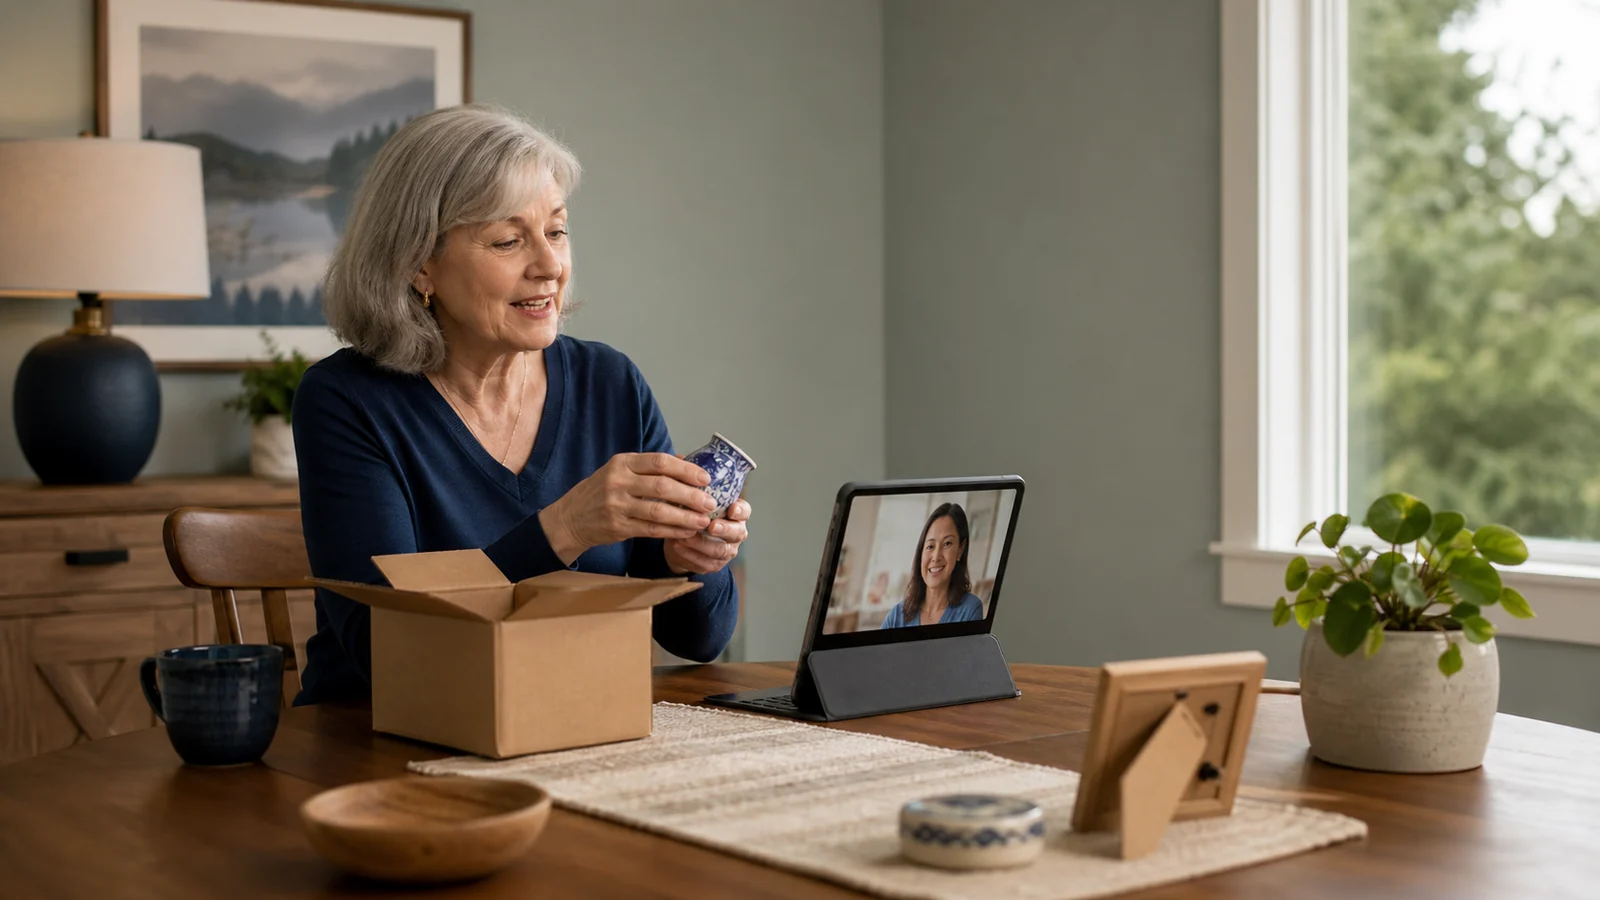
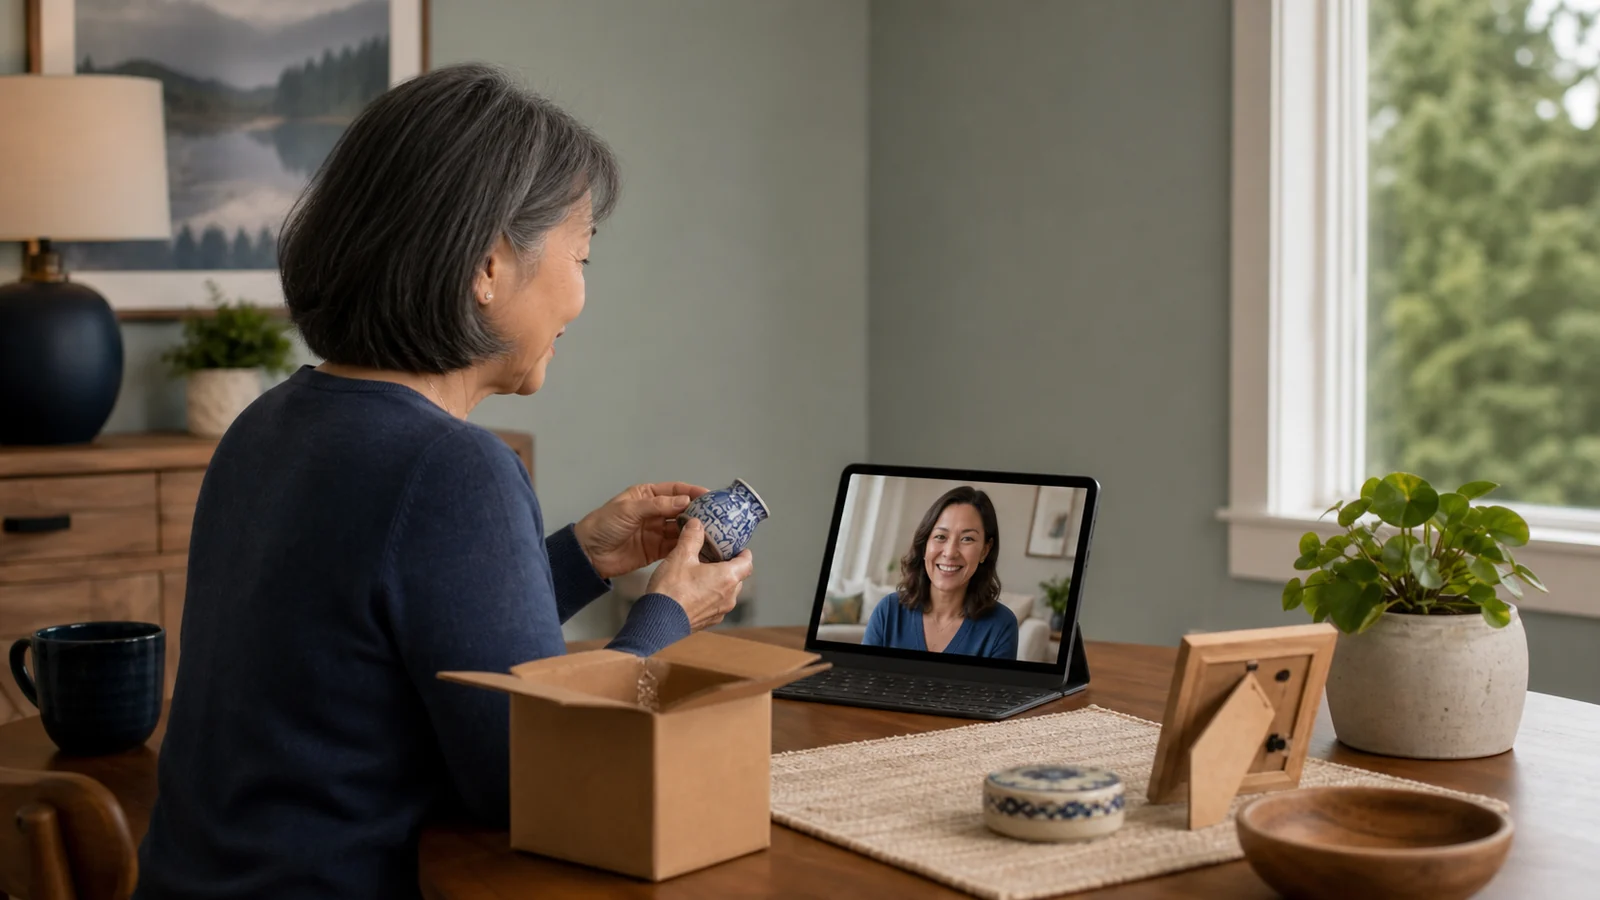
Correct device orientation in downsizing article image

diff --git a/src/data/blogPosts.ts b/src/data/blogPosts.ts
@@ -227,7 +227,7 @@ If you're downsizing into Snohomish and want a steady guide, Debbie Welch is a g
     slug: "help-parents-downsize-out-of-area",
     metaDescription: "Learn how to help parents downsize in Snohomish County from out of area, including communication, authority, sorting, home preparation, vendors, safety, and closing.",
     image: "/blog/help-parents-downsize-from-out-of-area.webp",
-    imageAlt: "Older homeowner discussing meaningful belongings with her adult daughter by video call",
+    imageAlt: "Asian American older homeowner discussing a meaningful keepsake with her adult daughter during a correctly oriented video call",
     content: "Helping a parent downsize from far away can involve housing, belongings, health, finances, family history, and legal authority at the same time. Distance makes coordination harder, but it does not need to remove the homeowner from the decisions.\n\nThe plan should begin with what your parent wants and what support they are asking you to provide.\n\n**Clarify the goal before assigning tasks**\n\nAsk what is prompting the move and what the next home needs to make daily life easier. The answer may involve maintenance, stairs, proximity to family, transportation, health care, social connection, cost, or simply wanting less responsibility.\n\nDo not assume that smaller automatically means better. Compare the full cost and daily reality of the next option, including association dues, services, accessibility, storage, pets, and distance from familiar routines.\n\nWrite down the priorities everyone agrees on. Separate them from ideas that still need discussion.\n\n**Understand who has authority to decide and sign**\n\nThe homeowner usually remains the decision-maker unless valid legal authority provides otherwise. If a power of attorney, trust, estate, guardianship, or other arrangement is involved, consult the appropriate attorney, title company, and financial professionals early.\n\nA real-estate agent should not interpret legal documents or decide whether someone has signing authority.\n\nConfirm:\n\n- Who owns the property\n- Who can approve work and sign documents\n- Whether all owners are available\n- Where original legal documents are located\n- Whether the title company needs advance review\n- Who should receive financial and transaction information\n\nAddressing this early can prevent serious delays later.\n\n**Create one family communication structure**\n\nChoose one primary contact for transaction updates and one shared place for schedules and decisions. Multiple relatives giving separate instructions can confuse vendors and make the homeowner feel surrounded.\n\nDefine useful roles. One person might coordinate family belongings, another could research moving options, and another could attend important appointments. Final decisions should still be documented clearly.\n\n**Break the belongings into manageable categories**\n\nStart with areas that carry less emotion. Avoid beginning with photographs, heirlooms, or a room associated with major family memories.\n\nUse categories such as:\n\n- Moving to the next home\n- Going to family or friends\n- Donating\n- Selling\n- Shredding or securely disposing\n- Recycling or trash\n- Reviewing later\n\nLimit the “review later” category to a defined space. Give relatives a deadline to choose and collect items. Photograph meaningful objects when the story matters more than keeping the physical item.\n\nBe cautious about businesses offering to buy valuables quickly. Obtain independent information for items that may have significant financial or historical value.\n\n**Protect privacy and security**\n\nBefore cleaners, movers, contractors, photographers, or buyers enter the home, remove or secure:\n\n- Financial and legal records\n- Identification and medical information\n- Medications\n- Checkbooks and credit cards\n- Firearms and other regulated items\n- Jewelry, cash, and small valuables\n- Passwords, devices, and account information\n- Mail and documents containing personal data\n\nArrange mail forwarding and secure document shredding. Out-of-area family members should verify unusual payment or wire requests through trusted contact information.\n\n**Evaluate the home before approving a large project list**\n\nNot every home needs extensive renovation. Begin with safety, active leaks, deferred maintenance, cleanliness, lighting, excess belongings, and issues likely to concern ordinary buyers.\n\nAsk for written estimates and photographs. Establish spending limits and identify who can approve unexpected work. Large projects should be evaluated for cost, delay, disruption, and likely benefit.\n\nA pre-listing consultation can help separate necessary preparation from work that may not be worth doing.\n\n**Build a dependable local team**\n\nThe exact team depends on the move, but may include movers, estate-sale or auction professionals, donation services, cleaners, repair contractors, landscapers, organizers, storage providers, attorneys, tax advisers, and the closing company.\n\nCheck licensing or credentials when relevant, insurance, references, written scope, payment terms, and who will verify completion.\n\nNo one person should control every decision, payment, and piece of information without oversight.\n\n**Plan where your parent will be during listing and moving**\n\nConsider showings, pets, medications, mobility, transportation, meals, rest, and access to important belongings. A schedule that is efficient for the transaction may still be exhausting for the homeowner.\n\nIf temporary housing is needed, confirm accessibility and availability before relying on it.\n\n**Keep the move human**\n\nDownsizing can involve relief and grief at the same time. Progress may be uneven, especially when the home represents decades of family life.\n\nA useful out-of-area plan provides local help and reliable updates while keeping the homeowner involved. Clear authority, protected personal information, a realistic sorting process, and defined vendor responsibilities can reduce stress without rushing decisions that deserve care."
   },
   // BC08
